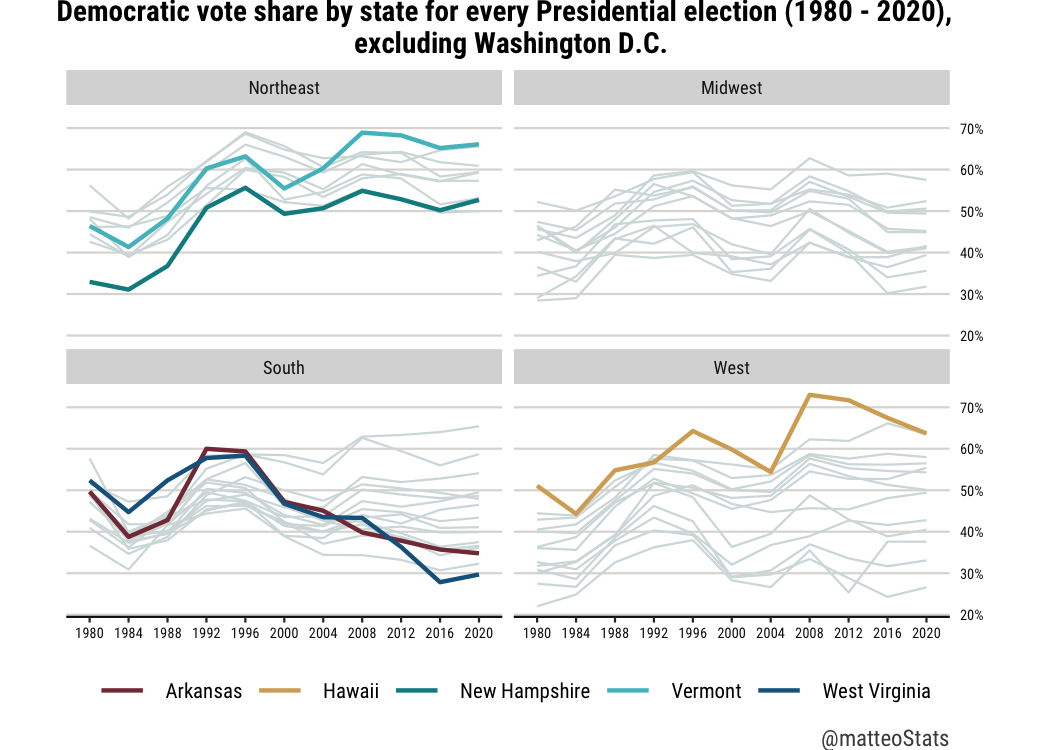
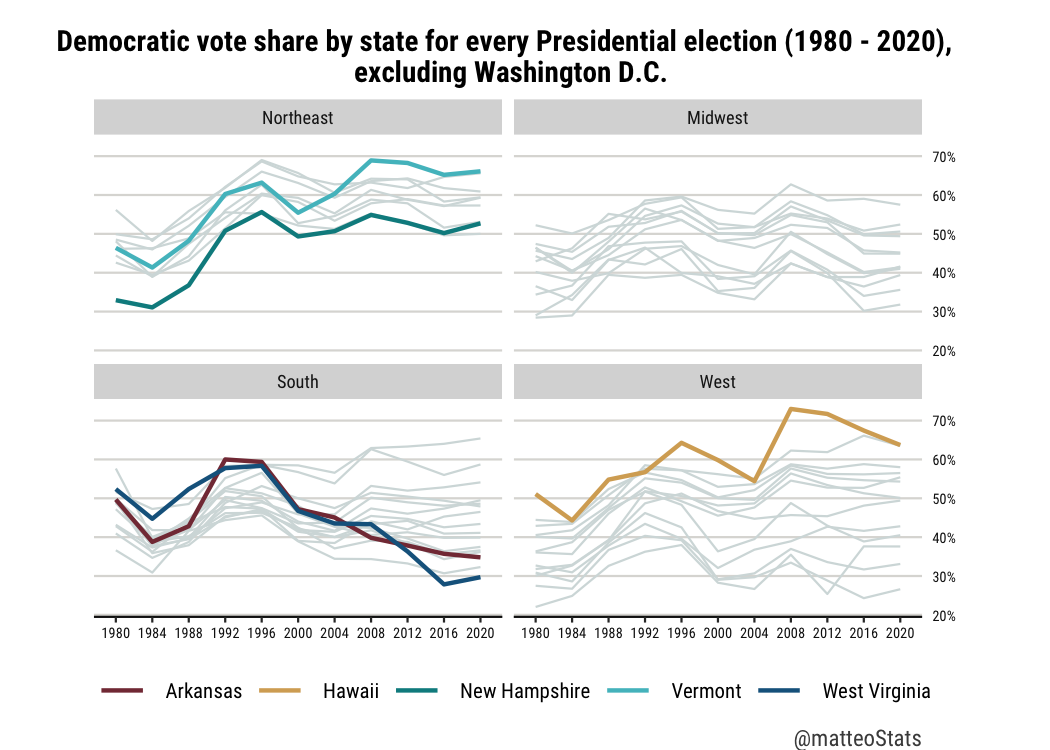
rendered v2

diff --git a/Graphing Relationships/README.md b/Graphing Relationships/README.md
@@ -30,7 +30,7 @@ dem_share_80_16 <- read_dta("data/leipvote1980_2016wide.dta")
 </details>
 
 Now I join the 2020 election data to democratic votes shares of the two
-party vote, from 1980 to 2016 to the 1980-2016.
+party vote to the 1980-2016 data frame.
 
 <details>
 <summary>Code</summary>
@@ -132,7 +132,7 @@ plot1 <- ggplot(vote16_20, aes(x = pctdem2016*100, y = pctdem2020*100)) +
                   max.overlaps = Inf) +
   theme(text=element_text(family="Roboto"),
         panel.background = element_blank(),
-        plot.margin = unit(c(0, 0.5, 0.5, 0.5), "cm"),
+        plot.margin = unit(c(0.5, 0.5, 0.5, 0.5), "cm"),
         plot.title=element_text(hjust=0.5, face="bold", size=12, margin = margin(b=10)),
         plot.caption = element_text(size=9, vjust = -2),
         axis.ticks = element_blank(),
@@ -154,7 +154,7 @@ plot1
 Even using the {ggrepel} package to label state names, the plot is too
 crowded! In order to be able to read and describe the graph, let us try
 labeling only 10 states. To bring more insight on states that
-experienced change, I will choose those with the highest difference
+experienced change, I highlighted those with the highest difference
 between 2016 and 2020.
 
 <details>
@@ -169,7 +169,7 @@ vote16_20_new <- vote16_20 %>%
 
 </details>
 
-Now let us plot the new graph, with less state labels.
+Now let’s plot the new graph with less state labels.
 
 <details>
 <summary>Code</summary>
@@ -183,7 +183,7 @@ plot2 <- ggplot(vote16_20_new, aes(x = pctdem2016*100, y = pctdem2020*100, col =
                   position = position_nudge_repel(y = 1)) +
   theme(text=element_text(family="Roboto"),
         panel.background = element_blank(),
-        plot.margin = unit(c(0, 0.5, 0.5, 0.5), "cm"),
+        plot.margin = unit(c(0.5, 0.5, 0.5, 0.5), "cm"),
         plot.title=element_text(hjust=0.5, face="bold", size=12, margin = margin(b=10)),
         plot.caption = element_text(size=9, vjust = -2),
         axis.ticks = element_blank(),
@@ -215,9 +215,9 @@ vote share decreased from 2016 to 2020.
 The choice of states to label does leave out some information. For
 example, it is interesting to note that some traditionally Republican
 states, such as Arizona and Georgia, had a significant gain in
-Democratic votes in 2020. Overall, this plot provides a useful visual
-representation of the changing political landscape in the United States
-between the 2016 and 2020 presidential elections.
+Democratic votes in 2020. However, overall, this plot provides a useful
+visual representation of the changing political landscape in the United
+States between the 2016 and 2020 presidential elections.
 
 At the top-right corner of the plot, the state of Washington, D.C. seems
 like an outlier. For both 2016 and 2020, it has a much higher percentage
@@ -259,9 +259,10 @@ plot3
 ![](README_files/figure-commonmark/unnamed-chunk-7-1.png)
 
 The effect of removing Washington D.C. is that the points of the scatter
-plot are less tightly clustered. Removing the outlier - DC - helps to
-get a clearer view of the evolution of the vote for the Democrat
-candidate between 2016 and 2020 in the other states.
+plot are less tightly clustered. Removing the outlier has the effect of
+zooming in on the other states, and helps to get a clearer view of the
+evolution of the vote for the Democrat candidate between 2016 and 2020
+in the other states.
 
 ## Question 3
 
@@ -305,9 +306,9 @@ vote_80_20_new <- vote_80_20 %>%
     # ℹ 535 more rows
 
 Now, we can generate a line plot for the 50 states from 1980 to 2020,
-graphing percent Democratic on the y-axis and year on the x-axis. To
-bring more insight, we will emphasize the 5 states with the highest
-variation, using standard deviation.
+showing the percentage of Democratic vote on the y-axis and year on the
+x-axis. To bring more insight, we will emphasize the 5 states with the
+highest variation, using standard deviation.
 
 A bit of setup is necessary first.
 
@@ -323,7 +324,7 @@ state_sd <- vote_80_20_new %>%
   group_by(state)%>%
   summarize(sd = sd(vote_pct))
 
-#selection of 6 states
+#selection of the 5 states with the highest sd
 names(highlight_colors) <- c('West Virginia', 
                              'Vermont', 
                              'New Hampshire',
@@ -331,7 +332,7 @@ names(highlight_colors) <- c('West Virginia',
                              'Arkansas')
 
 
-#new data frame with only those 5 focus areas
+#new data frame with only those 5 states
 highlight_data <- vote_80_20_new %>%
   filter(state %in% names(highlight_colors))
 ```
@@ -390,7 +391,7 @@ percentage of Democratic voters over time; however, this does not
 necessarily mean that voting is becoming more Democratic. In fact, the
 data could suggest a growing polarization between Democratic and
 Republican voters. This is particularly evident when observing the
-widening of the spread of Democratic vote share over the years, at the
+widening of the range of Democratic vote share over the years, at the
 national level.
 
 There are some notable spikes and dips in the lines, indicating abrupt
@@ -401,13 +402,13 @@ decrease at the turn of the millennium.
 The lines for each state are generally quite flat, indicating that the
 percentage of Democratic voters does not vary greatly within states over
 time, with some states that consistently vote more, or less, Democratic
-others.
+than others.
 
-This leads me to the story told by my choice to highlight the states
-with the highest standard deviation in democratic voting share. A state
-with a high standard deviation indicates that it experiences more
+This leads to the story told by my choice of highlighting the states
+with the highest standard deviations in democratic voting share. A state
+with a high standard deviation indicates that it experienced more
 variability in the percentage of Democratic voters across time, compared
-to states with lower standard deviations. Those highlighted states go
+to states with lower standard deviations. Those highlighted states went
 through noteworthy changes in demographics or political attitudes over
 time, leading to more variability in the percentage of Democratic
 voters. Identifying those states is especially important in the United
@@ -478,7 +479,7 @@ plot5 <- ggplot(vote_80_20_new, aes(x = Year, y = vote_pct, group = state)) +
   
   theme(aspect.ratio = 3.2/6,
         text = element_text(family = "Roboto Condensed"),
-        plot.margin = margin(t = 0, r = 0.5, b = 0, l = 0.5, unit = "cm"),
+        plot.margin = margin(t = 0.5, r = 0.5, b = 0, l = 0.5, unit = "cm"),
         plot.background = element_rect(fill = "white"),
         panel.background = element_rect(fill = "white"),
         panel.grid.major.x = element_blank(),
@@ -530,10 +531,11 @@ censored by governments, potentially putting activists at risk.
 
 I created a dataset called “final_data.csv” by joining data on Internet
 penetration, provided by the [International Telecommunication Union
-(ITU)](https://www.itu.int/en/ITU-D/Statistics/Pages/stat/default.aspx),
-and around 50 different metrics used by
+(ITU)](https://www.itu.int/en/ITU-D/Statistics/Pages/stat/default.aspx)
+(percentage of the population who has access to the internet), and
+around 50 different metrics used by
 [V-Dem](https://www.v-dem.net/data/the-v-dem-dataset/) to measure levels
-of democracy.
+of democracy. This data is available for a total of 157 countries.
 
 <details>
 <summary>Code</summary>
@@ -580,13 +582,13 @@ head(df_reduced)
     6 Australia            0.96      0.804     2.40      2.80  TRUE   Higher Libera…
 
 My main research question is: “Does higher Internet penetration lead to
-high levels of freedom of speech?”
+higher levels of freedom of speech?” More specifically, could the
+Internet empower people who are usually less able to express themselves
+to finally share their opinions?
 
-More specifically, could the Internet empower people who are usually
-less able to express themselves to finally share their opinions? Here is
-a scatterplot that illustrates the relationship between freedom of
-discussion for women, my outcome variable, and access to the Internet,
-my main independent variable?
+Here is a scatterplot that illustrates the relationship between freedom
+of discussion for women, my outcome variable, and access to the
+Internet, my main independent variable.
 
 <details>
 <summary>Code</summary>
@@ -620,8 +622,8 @@ free_disc_women_plot
 ![](README_files/figure-commonmark/unnamed-chunk-13-1.png)
 
 From this simple scatterplot, and the linear regression fitted to the
-data, it seems that countries with high levels of Internet penetration
-are associated with high levels of freedom of discussion for women.
+data, it seems that countries with higher levels of Internet penetration
+are associated with higher levels of freedom of discussion for women.
 However, an important omitted variable bias could emerge if we do not
 take governance into account. Indeed, democracies, usually characterized
 by high levels of freedom of discussion, are also often more developed
@@ -685,9 +687,15 @@ free_disc_women_plot2
 
 This faceted graph gives some very interesting information! It suggests
 that the effect of Internet penetration on freedom of discussion for
-women is *conditional on the level of libertarian democracy*. In
+women is **conditional on the level of libertarian democracy**. In
 countries considered to be more democratic, higher access to the
 Internet seems to be correlated to an increase in the freedom of
-discussion for women. On the other hand, countries classified as having
-a lower liberal democracy index do not display an apparent relationship
-between Internet penetration and freedom of discussion for women.
+discussion for women. This observation supports the hypothesis that the
+inter-connectivity and anonymity provided by the Internet empowers
+groups that tend to be discriminated against to express themselves. On
+the other hand, countries classified as having a lower liberal democracy
+index do not display any apparent relationship between Internet
+penetration and freedom of discussion for women. This could be explained
+by the censorship and online harassment efforts put in place by
+authoritarian regimes to limit the danger that free speech on the
+Internet poses to their stability.
